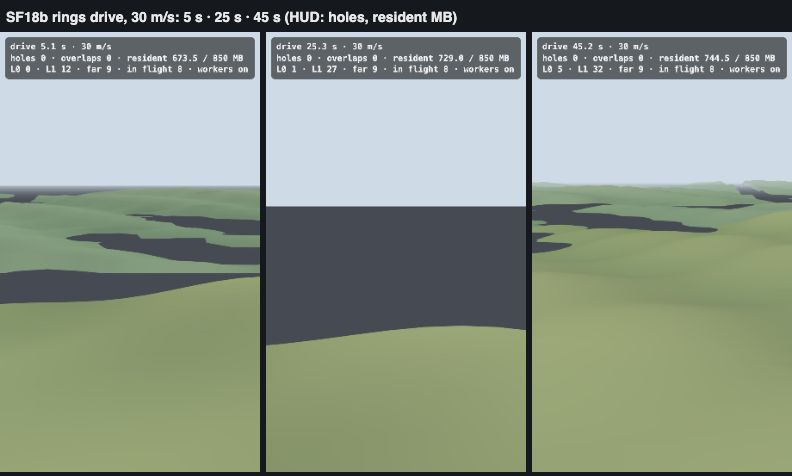
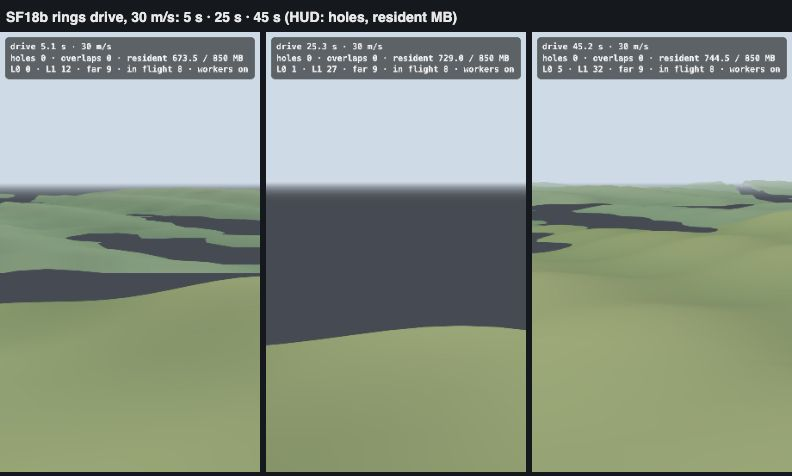
SHARD-PLATFORM SF18b: widen the drive fixture's deck past the far plane; re-run the browser drive
The fixture's 2.4 km deck ended inside the fog's far distance, so a hard grey edge met the sky
on the drive board. An 8 km deck keeps its edge past the camera's 2 km far plane from anywhere on
the grid. Re-run: 0 holes, 0 overlaps, 777.8 MB peak, median 60 fps, p95 16.7 ms; the one 404 is
the fixture page's favicon.

Plan-State: unchanged
Claude-Session: https://claude.ai/code/session_01AihbFRc7pfU3hiUoEFHg1n

Changed region(s): [[0.3333, 0.3824, 0.6667, 0.4412]]

diff --git a/test/fixtures/sim-level/rings/drive.ts b/test/fixtures/sim-level/rings/drive.ts
@@ -22,8 +22,9 @@ const camera = new PerspectiveCamera(60, innerWidth / innerHeight, 0.5, 2000);
 scene.background = new Color(0.62, 0.7, 0.78); scene.fog = new Fog(new Color(0.62, 0.7, 0.78), 500, 1300);
 const sun = new DirectionalLight(0xffffff, 1.6); sun.position.set(300, 500, 200);
 scene.add(sun, new HemisphereLight(0xcfe3ff, 0x50483c, 0.9));
-// the platform deck under the grid (highway and strips stand-in), so the gaps between cells are not read as holes
-const deck = new Mesh(new PlaneGeometry(2400, 2400).rotateX(-Math.PI / 2), new MeshLambertMaterial({ color: 0x5a5d61 })); deck.position.y = -6; scene.add(deck);
+// the platform deck under the grid (highway and strips stand-in), so the gaps between cells are not read as holes;
+// 8 km wide so its edge stays past the camera's 2 km far plane from anywhere on the grid (no hard edge at the horizon)
+const deck = new Mesh(new PlaneGeometry(8000, 8000).rotateX(-Math.PI / 2), new MeshLambertMaterial({ color: 0x5a5d61 })); deck.position.y = -6; scene.add(deck);
 const material = new MeshLambertMaterial({ vertexColors: true });
 
 const cells: RingCell[] = [];
